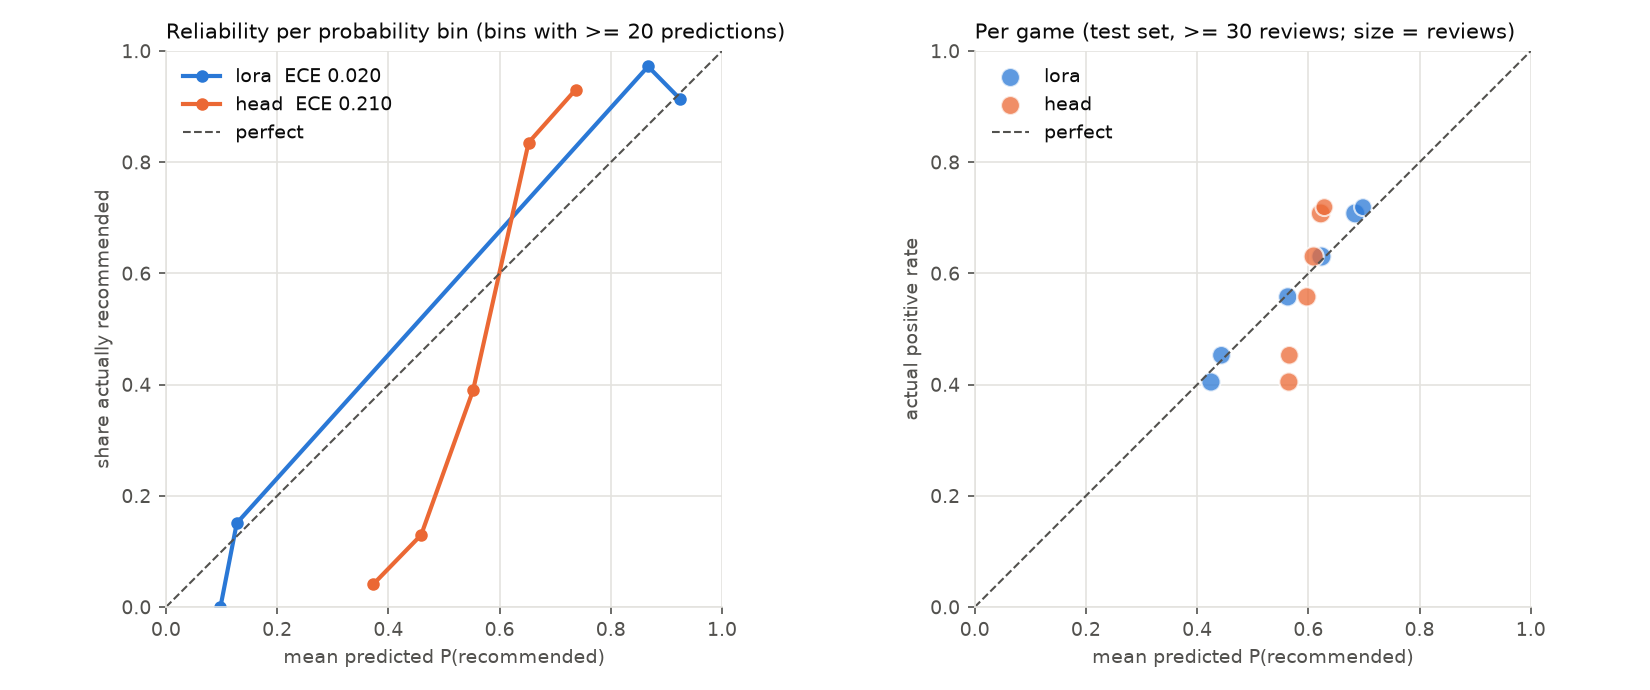
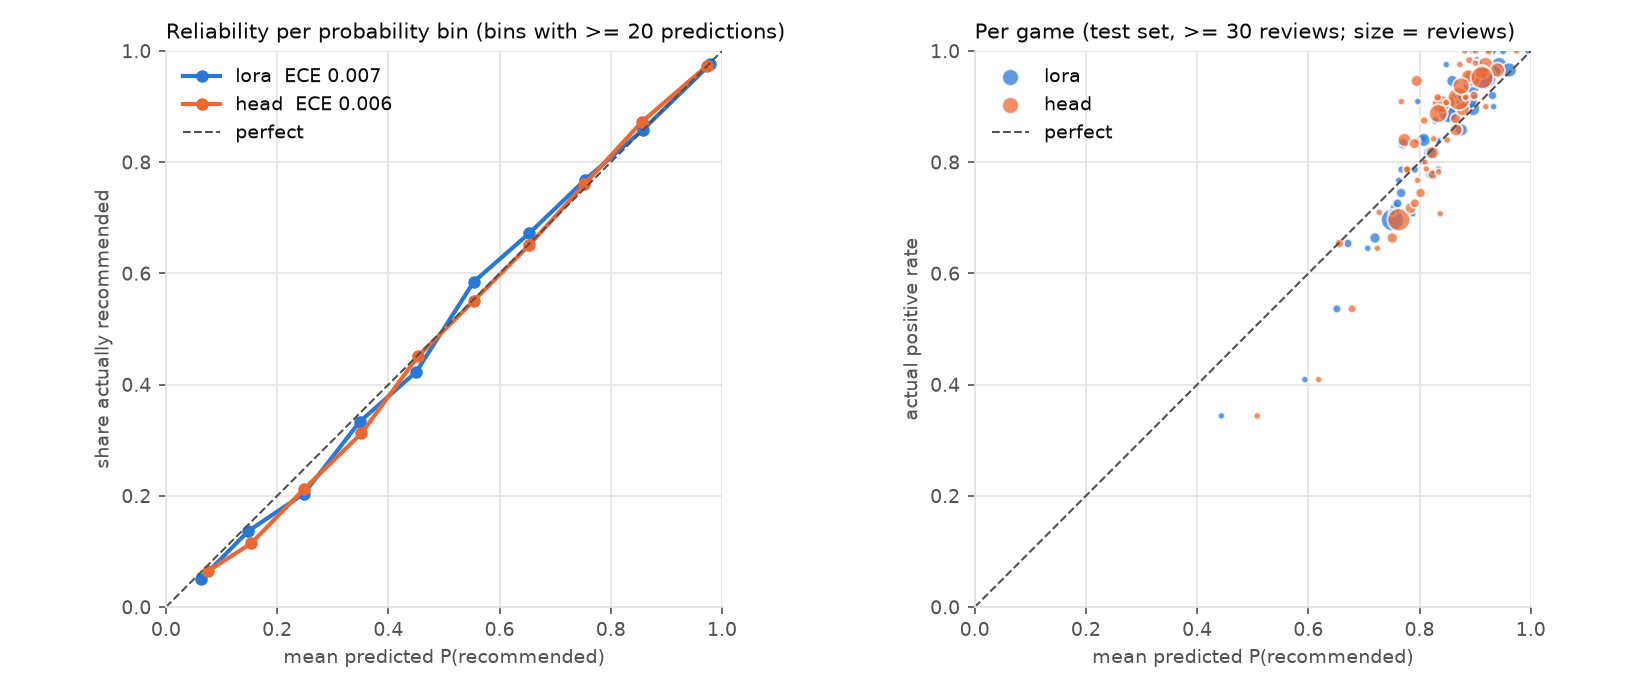
Report results from the real Steam reviews dataset
Replace the synthetic smoke numbers with the full ETL (6.4M -> 4.4M rows, also
run on Databricks serverless), LoRA vs head-only on 30k CPU-trained rows,
calibration, ONNX latency/int8, and a 300k IVF-PQ index. Document the Docker
ETL path, the dataset licence, and what remains unrun (live Bedrock).

diff --git a/README.md b/README.md
@@ -33,22 +33,36 @@ flowchart LR
 
 ## Results
 
-> **These numbers come from the synthetic smoke dataset** (20k generated reviews,
-> 8% label noise, 60 games), with a 3-layer MiniLM, on a laptop CPU. They show the
-> pipeline works end to end. They are not claims about real Steam reviews.
-> Re-run on the real data (below) and replace this table.
+Measured on the real [Kaggle Steam reviews](https://www.kaggle.com/datasets/andrewmvd/steam-reviews)
+dump, on a laptop CPU with no GPU. That budget is why training used a 30k-review
+sample rather than the 3.4M available, for one epoch.
 
 | Stage | Metric | Value |
 |---|---|---|
-| Classifier, test set = unseen games | LoRA (r=8, 0.22% of params trained) | **88.7%** accuracy |
-| | head only (encoder frozen) | 73.8% |
-| | majority class | 57.9% |
-| Calibration | ECE, LoRA / head only | **0.020** / 0.210 |
-| ONNX parity | max abs logit diff vs PyTorch | 7e-7 |
-| ONNX latency, batch 1, seq 64 | PyTorch / ORT fp32 / ORT int8 | 20.7 / 8.1 / **5.6 ms** |
-| int8 quantisation | size, accuracy | 70 → **18 MB**, 88.6% → 88.7% |
-| FAISS, 19k vectors | IVF-PQ vs exact: size, recall@10 | 29.4 → **2.3 MB**, 0.92 |
+| Spark ETL | raw rows → kept after cleaning and dedupe | 6,417,106 → **4,400,530** |
+| | split by game: train / val / test | 3.43M / 475k / 493k reviews; 7,299 / 917 / 874 games |
+| | same job on Databricks serverless (Free Edition) | identical counts, 324 s |
+| Classifier, DistilBERT, 30k train rows, test = 10k reviews of 55 unseen games | LoRA (r=8, 1.1% of params trained) | **90.8%** accuracy, AUC **0.936**, macro-F1 **0.830** |
+| | head only (encoder frozen) | 87.9%, AUC 0.896, macro-F1 0.758 |
+| | always "recommended" | 82.5%, macro-F1 0.45 |
+| Calibration | ECE, LoRA / head only | 0.007 / 0.006 |
+| | per-game positive rate, mean abs error, LoRA / head | **0.046** / 0.060 |
+| ONNX parity | max abs logit diff vs PyTorch | 3e-6 |
+| ONNX latency, batch 1, seq 128 | PyTorch / ORT fp32 / ORT int8 (p50) | 72.5 / 61.1 / **36.7 ms** |
+| int8 quantisation | size, accuracy on 2k test reviews | 268 → **67 MB**, 91.3% → 90.6% |
+| FAISS, 300k reviews, MiniLM-L6 384-d | IVF-PQ vs raw float32: size, recall@10 (nprobe 16) | 461 → **21 MB**, 0.59 |
 | Serving image | torch installed | **no** (checked in CI) |
+
+Because 82% of reviews are positive, accuracy flatters both models. AUC and
+macro-F1 show the gap more clearly. Both models are well calibrated overall.
+The per-game panel shows LoRA tracks each game's real approval rate more closely.
+
+The 0.59 recall is the cost of heavy compression: 48-byte PQ codes, and 16 of 2,190
+cells probed per query. Raising `--nprobe` or the PQ code size buys recall back at
+the cost of speed or memory. It is reported as measured, not tuned.
+
+CI reruns everything except Databricks and Bedrock on a small synthetic dataset
+(`scripts/smoke.sh`), to check that the pipeline still works.
 
 ![Calibration](docs/img/calibration.png)
 ![Latency](docs/img/latency.png)
@@ -100,13 +114,21 @@ paths and the Hugging Face cache can exceed the 260-character path limit.
 
 1. Download the [Steam Reviews dataset](https://www.kaggle.com/datasets/andrewmvd/steam-reviews)
    (`dataset.csv`, ~6.4M rows) into `data/raw/`.
+   The dataset is licensed CC BY-NC 4.0, so this repo does not include it or
+   anything derived from it.
 2. Run the ETL: `python -m reviewscope.etl_spark --raw data/raw/dataset.csv`.
-   Or upload the CSV to Databricks and run `databricks/etl_job.py`.
+   On Windows, run it in Docker to avoid Hadoop's winutils:
+   `docker build -f docker/etl.Dockerfile -t reviewscope-etl .`, then
+   `docker run --rm -m 7g -v "$PWD/data:/app/data" reviewscope-etl --raw data/raw/dataset.csv`.
+   Or upload `dataset.csv.gz` to a Unity Catalog volume and run `databricks/etl_job.py`.
 3. Train: `python -m reviewscope.train_lora --mode lora` and `--mode head`.
-   These default to DistilBERT and 200k training rows; a GPU helps.
+   These default to DistilBERT and 200k training rows; a GPU helps. The results
+   above used `--max-train 30000 --max-eval 10000`. On CPU that took 94 min for
+   LoRA and 42 min for head only.
 4. Run `python -m reviewscope.calibration` and `python -m reviewscope.export_onnx`.
-5. Build the index: `python -m reviewscope.build_index --limit 1000000`.
-   Above 100k vectors it switches to IVF-PQ.
+5. Build the index: `python -m reviewscope.build_index --limit 300000`.
+   Above 100k vectors it switches to IVF-PQ. On CPU, embedding 300k reviews took
+   about 1.8 hours.
 6. Ask a question with RAG:
    `BEDROCK_MODEL_ID=<id> python -m reviewscope.rag_bedrock --app-id 570 "How are the servers?"`
    Use `--dry-run` to see the prompt without calling AWS.
@@ -136,10 +158,13 @@ databricks/         the ETL as a Databricks notebook
 
 ## Limits
 
-- The synthetic set has 60 games, so the per-game calibration panel has only a few points.
-  The real set has thousands of games.
-- The Databricks notebook calls the same `run()` that CI tests, but it has not been run
-  on Databricks from this repo's CI.
-- CI checks the Bedrock prompt and citation checking, not a live Bedrock call.
+- Training used 30k of the 3.4M training reviews, for one epoch, on CPU. A GPU
+  run on the full split should widen the gap between LoRA and the head-only model.
+- The Databricks notebook was run once by hand on Databricks Free Edition. CI
+  does not run it.
+- No live Bedrock answers are shown yet. CI checks the prompt and the citation
+  checking with `--dry-run`, and the author's AWS account has not had Bedrock
+  model access enabled yet.
+- IVF-PQ recall@10 is 0.59 at the default settings (see Results).
 - Steam's "recommended" label measures recommendation, not sentiment. Sarcastic
   "10/10 would crash again" reviews are noise that no classifier should fit.
